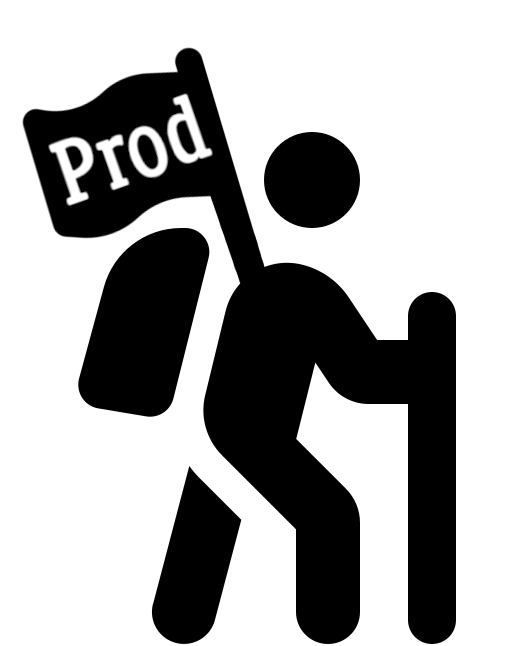
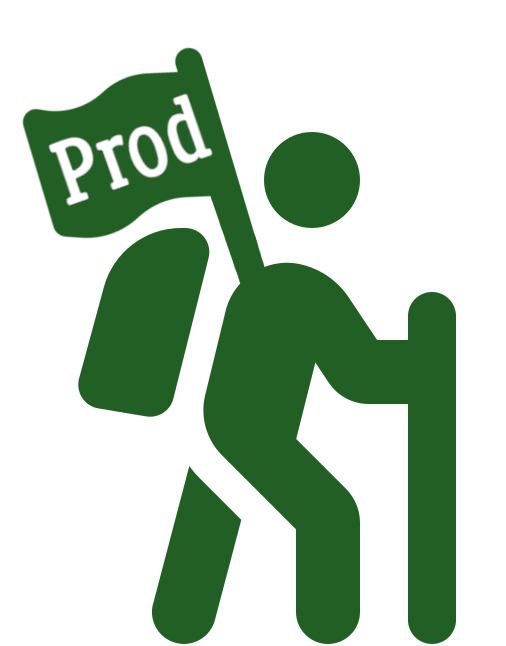
updated sprites to have colors and added proper flip logic

diff --git a/team-hike/index.html b/team-hike/index.html
@@ -45,21 +45,45 @@
         { name: 'cs', goal: 180, complete: 0 },
         { name: 'prod', goal: 20, complete: 0 },
         { name: 'ps', goal: 95, complete: 0 },
-        { name: 'dev', goal: 270, complete: 0 }
+        { name: 'dev', goal: 420, complete: 0 }
       ];
 
-      teams.map((team, i) => {
+      teams.forEach((team, i) => {
+        const animationInfo = getAnimationInfo();
         team.complete = Math.round(Math.random() * team.goal);
         const progress = determineProgress(team.goal, team.complete);
-        $('.hikers').append(`<img id="hiker-${i+1}" class="hiker" src="./images/${team.name}-hiker.png" style="--distance: ${progress}%; --shouldReverse: ${progress > 61 ? '180deg auto' : 'auto'}; --finishRotation: ${progress > 61 ? '0deg' : 'auto'}; --flipUrl: url(../images/${team.name}-hiker${progress > 61 ? '-reverse' : ''}.png);" />`);
+        $('.hikers').append(`<img id="hiker-${i+1}" class="hiker" src="./images/${team.name}-hiker.png" style="--distance: ${progress}%; --animationInfo: ${animationInfo}; --flipUrl: url(../images/${team.name}-hiker-reverse.png);" />`);
       });
 
       function determineProgress(goal, complete) {
         return (complete / goal) * 100;
       }
 
+      function getAnimationInfo() {
+        const R1 = ((Math.random() * 0.699) + 0.300).toFixed(3);
+        const R2 = ((Math.random() * 0.899) + 0.100).toFixed(3);
+        const R3 = ((Math.random() * 0.899) + 0.100).toFixed(3);
+        const R4 = (Math.random() + 0.4).toFixed(3);
+
+        return `move 30000ms cubic-bezier(${R1},${R2},${R3},${R4 > 1 ? (R4 - 1) : R4})`;
+      }
+
+      function checkProgress() {
+        console.log('check');
+        teams.forEach((team,i) => {
+          const distance = parseFloat($(`#hiker-${i+1}`).css('offset-distance'));
+          if (distance > 68) {
+            $(`#hiker-${i+1}`).addClass('flip');
+          }
+        });
+      }
+
       $('body').click(() => {
         $('.hiker').addClass('move');
+        const progressInterval = setInterval(checkProgress, 10);
+        setTimeout(() => {
+          clearInterval(progressInterval);
+        }, 31000);
       });
     </script>
   </body>

diff --git a/team-hike/css/style.css b/team-hike/css/style.css
@@ -37,10 +37,11 @@ body {
   offset-rotate: auto;
   animation-fill-mode: forwards;
   content: initial;
+  transition: offset-rotate 0.25s linear;
 }
 
 .hikers .hiker.move {
-  animation: move 30000ms ease-in-out;
+  animation: var(--animationInfo);
   animation-fill-mode: forwards;
 }
 
@@ -48,22 +49,16 @@ body {
   0% {
     offset-distance: 0%;
   }
-  60% {
-    offset-rotate: auto;
-    content: initial;
-  }
-  61% {
-    offset-rotate: var(--shouldReverse);
-    content: var(--flipUrl);
-  }
   100% {
     offset-distance: var(--distance);
-    offset-rotate: var(--finishRotation);
-    content: var(--flipUrl);
   }
 }
 
 #path-svg {
   position: absolute;
-  /* display: none; */
+}
+
+.hikers .hiker.flip {
+  offset-rotate: 180deg auto;
+  content: var(--flipUrl);
 }
